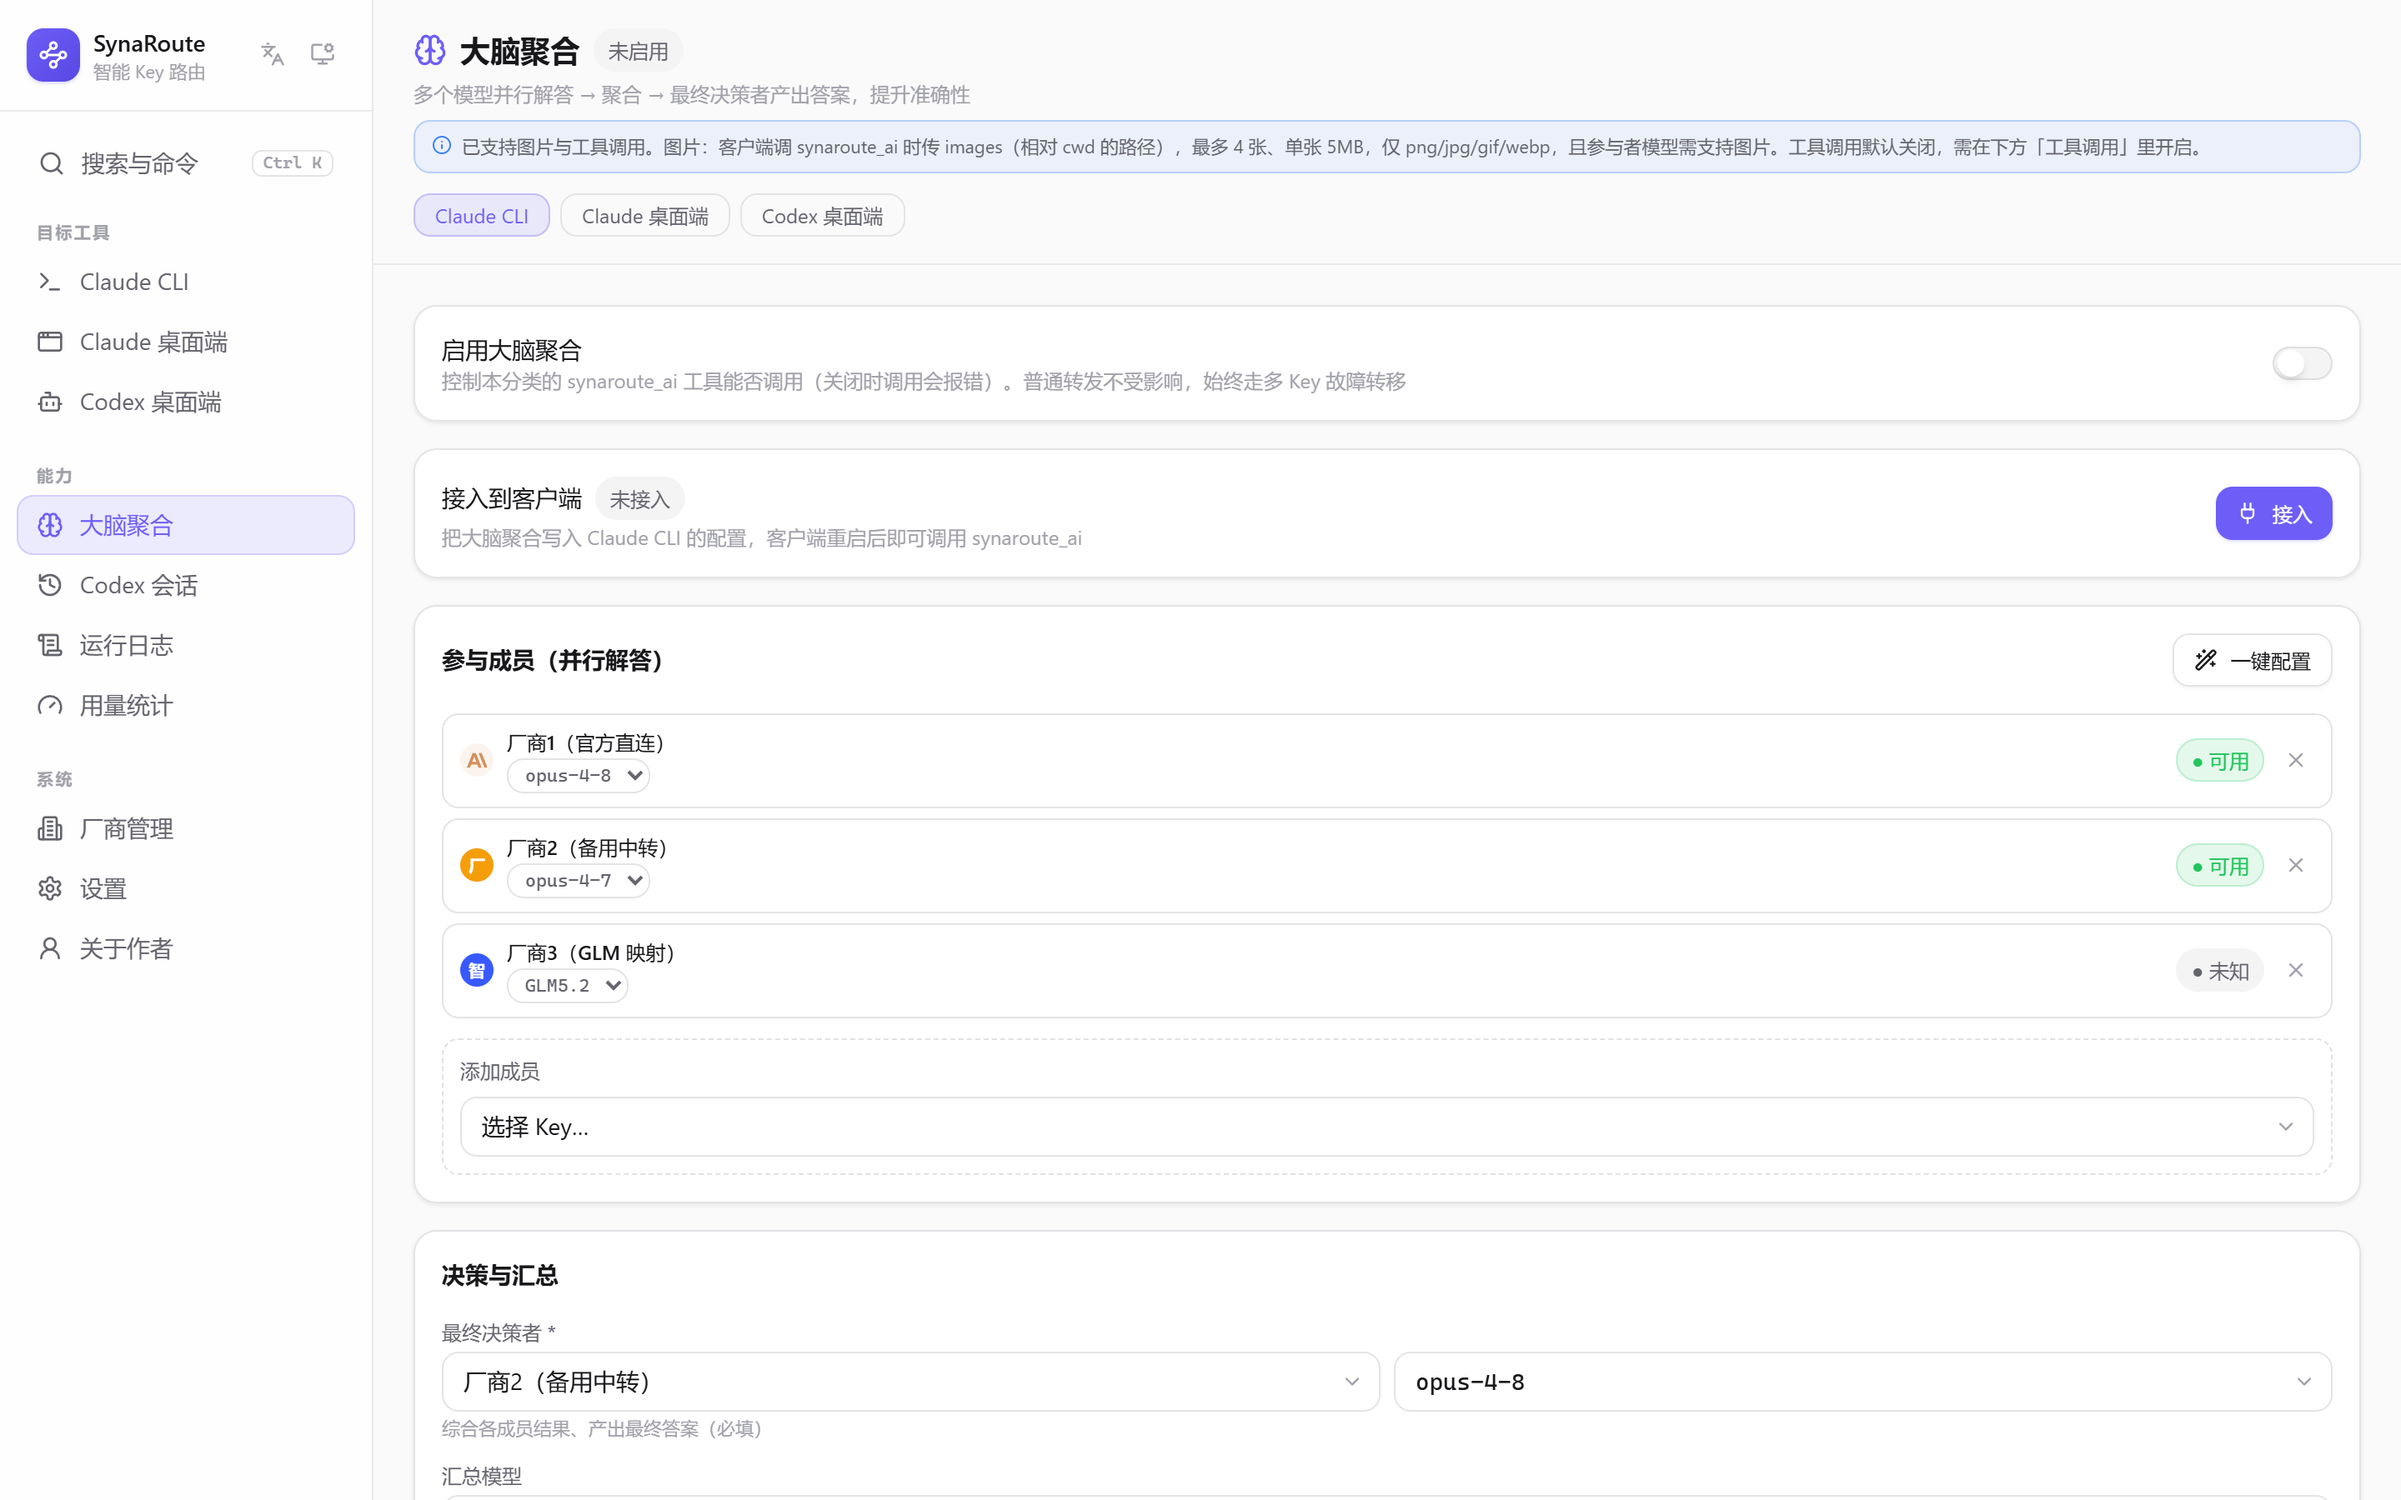
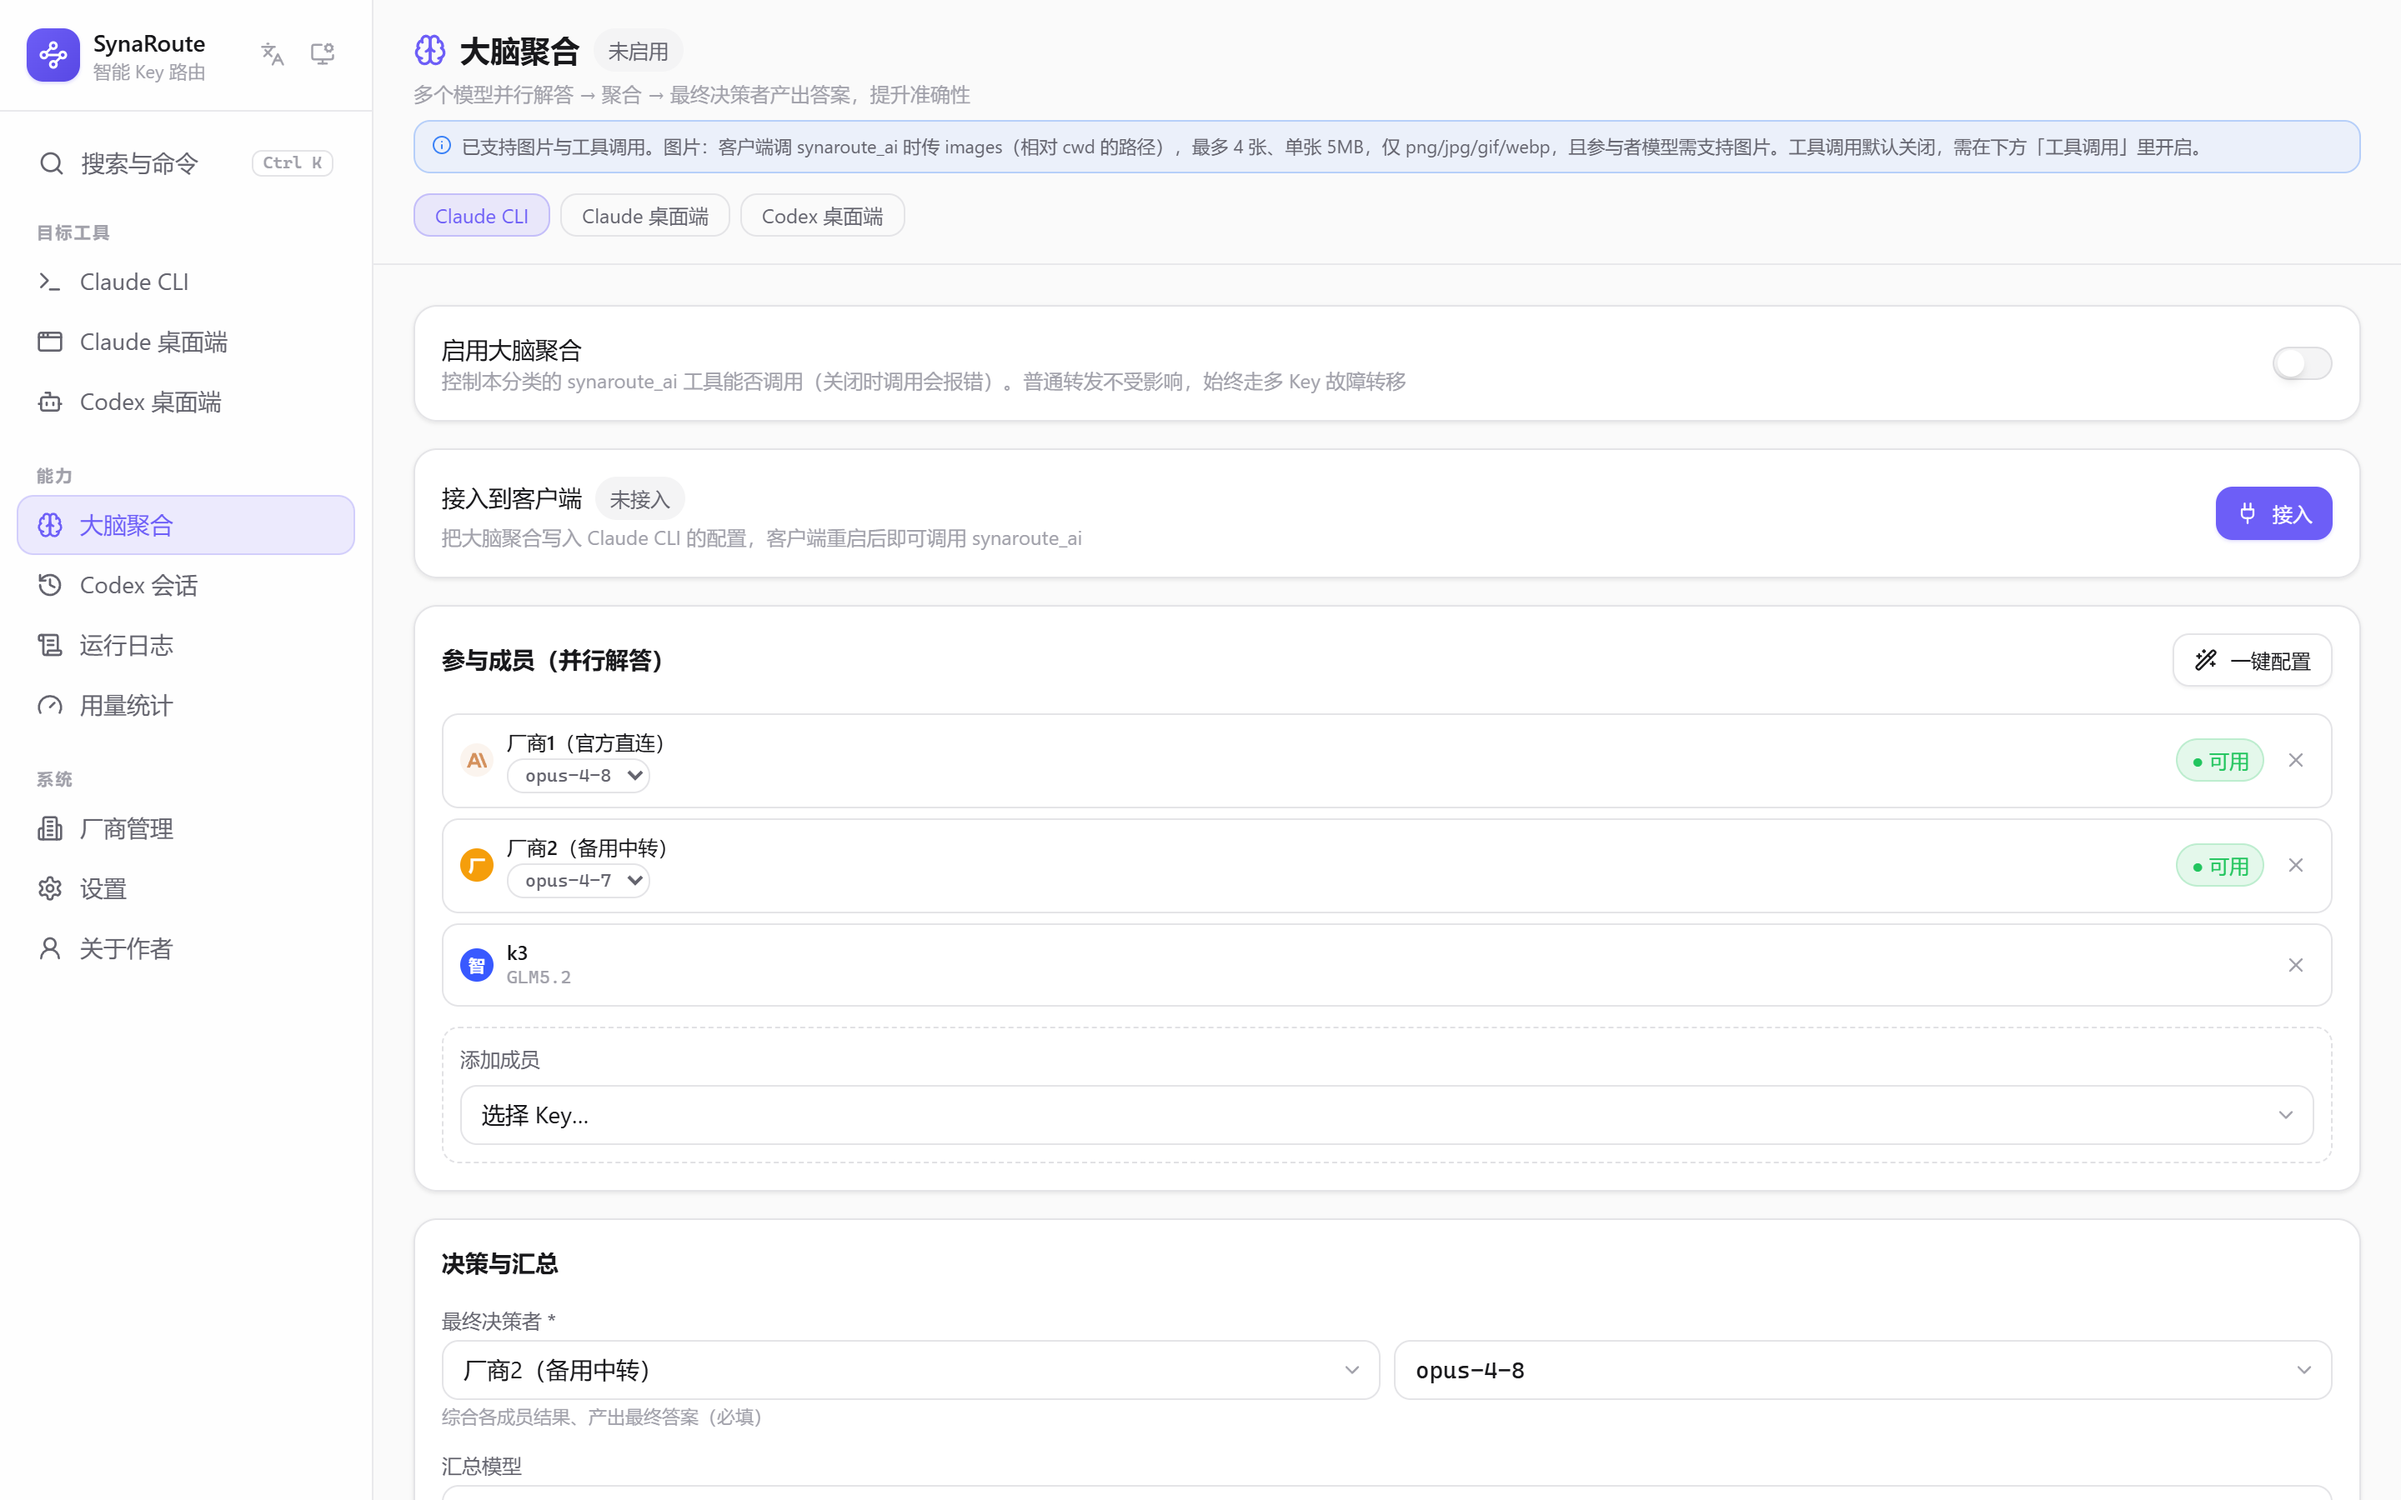
fix(site): 官网截图走「展示态」mock，去掉满屏告警
分类页截图此前顶着环境变量冲突 / 熔断 / 模型单点 / 余额查不到等一排告警横幅 ——
那些是常规预览 mock 刻意铺开的异常态（供开发者自检所有徽标/失败文案），却是官网
最不该展示给用户的样子。

新增 `?showcase=1` 开关（mockData.ts 的 SHOWCASE）：截图脚本带上它，mock 收敛成健康态
—— 只留启用+健康+未熔断的 Key、统一其模型集消除「单点」、无环境变量冲突、余额都查得到。
异常态一条不删，仅展示态下不呈现，开发自检价值不受影响。

10 张截图重拍。纯官网改动，桌面端 0.1.66 无需重发。

diff --git a/src/lib/mockData.ts b/src/lib/mockData.ts
@@ -32,6 +32,39 @@ import { MOCK_ENV_FINDINGS, mockEnvRemoval } from "./mockData.env";
 
 const now = Date.now();
 
+/**
+ * 「展示态」开关（`?showcase=1`）。
+ *
+ * 常规预览的 mock 是**刻意造异常**的：k3 未探测、k4 禁用且状态陈旧、k5 不可达、k6 熔断中，
+ * 余额四种失败态铺开、还有客户端环境变量冲突 —— 这些是给开发者在浏览器里一眼看全所有
+ * 徽标/失败文案用的（各处注释都写了「别删」）。但那正是**官网截图最不该展示**的样子：
+ * 用户第一眼看到满屏告警会以为软件出了问题。
+ *
+ * 官网截图脚本（`site/scripts/capture-shots.mjs`）带上 `?showcase=1`，本文件据此把数据
+ * **收敛成健康态**：只留正常运行的 Key、无环境变量冲突、余额都查得到。异常态一条不删，
+ * 只是展示态下不呈现 —— 两个用途各取所需，互不牺牲。
+ */
+const SHOWCASE =
+  typeof window !== "undefined" &&
+  new URLSearchParams(window.location.search).has("showcase");
+
+/**
+ * 展示态：只留「启用 + 健康(up) + 未熔断」的 Key。
+ *
+ * 还要**统一存活 Key 的模型集**：分类页的「模型单点」告警在「某模型只有一条 Key 能服务」
+ * 时触发，而常规 mock 里 k2 独有 `fable-5` → 即便只剩 k1/k2 也会亮一条告警。展示态下把
+ * 存活 Key 的 models 归一成同一组（主 + 备用同款模型，本就是最常见的健康配置），单点消失。
+ * mappings 一并清空：那是「对外名≠真实名」的映射，展示态的干净 Key 用不到。
+ */
+function forShowcase(list: ProviderKey[]): ProviderKey[] {
+  if (!SHOWCASE) return list;
+  const alive = list.filter(
+    (k) => k.enabled && k.health.status === "up" && !k.health.breakerUntil,
+  );
+  const shared = alive[0]?.models ?? [];
+  return alive.map((k) => ({ ...k, models: shared, mappings: [] }));
+}
+
 /** 主口令模式的浏览器预览态：默认关（与真实默认一致），启用后记住口令用于校验。 */
 let masterMock: MasterPasswordState = { enabled: false, locked: false };
 let masterPw = "";
@@ -276,7 +309,7 @@ const clone = <T>(v: T): T => JSON.parse(JSON.stringify(v));
 export const mockBridge = {
   async listKeys(categoryId: CategoryType) {
     await delay();
-    return clone(store[categoryId] ?? []);
+    return clone(forShowcase(store[categoryId] ?? []));
   },
   async upsertKey(key: ProviderKey) {
     await delay();
@@ -627,7 +660,8 @@ export const mockBridge = {
    */
   async queryBalance(keyId: string) {
     await delay();
-    const bucket = keyId.split("").reduce((a, c) => a + c.charCodeAt(0), 0) % 4;
+    // 展示态：一律走「正常有余额」那一支（下面桶 0），不铺开失败/超时/号废各态。
+    const bucket = SHOWCASE ? 0 : keyId.split("").reduce((a, c) => a + c.charCodeAt(0), 0) % 4;
     // 桶 1：查询失败（字段找不到）。卡片必须显示这句原因，**且绝不显示成余额 0**。
     if (bucket === 1) {
       return {
@@ -727,7 +761,8 @@ export const mockBridge = {
   // 三条样本各自的用途写在 `mockData.env.ts` 里（别随手删其中任何一条）。
   async detectEnvConflicts() {
     await delay();
-    return MOCK_ENV_FINDINGS;
+    // 展示态无冲突：官网截图不该顶着一条「环境变量冲突」告警横幅。
+    return SHOWCASE ? [] : MOCK_ENV_FINDINGS;
   },
   async removeEnvConflicts(names: string[]) {
     await delay();
